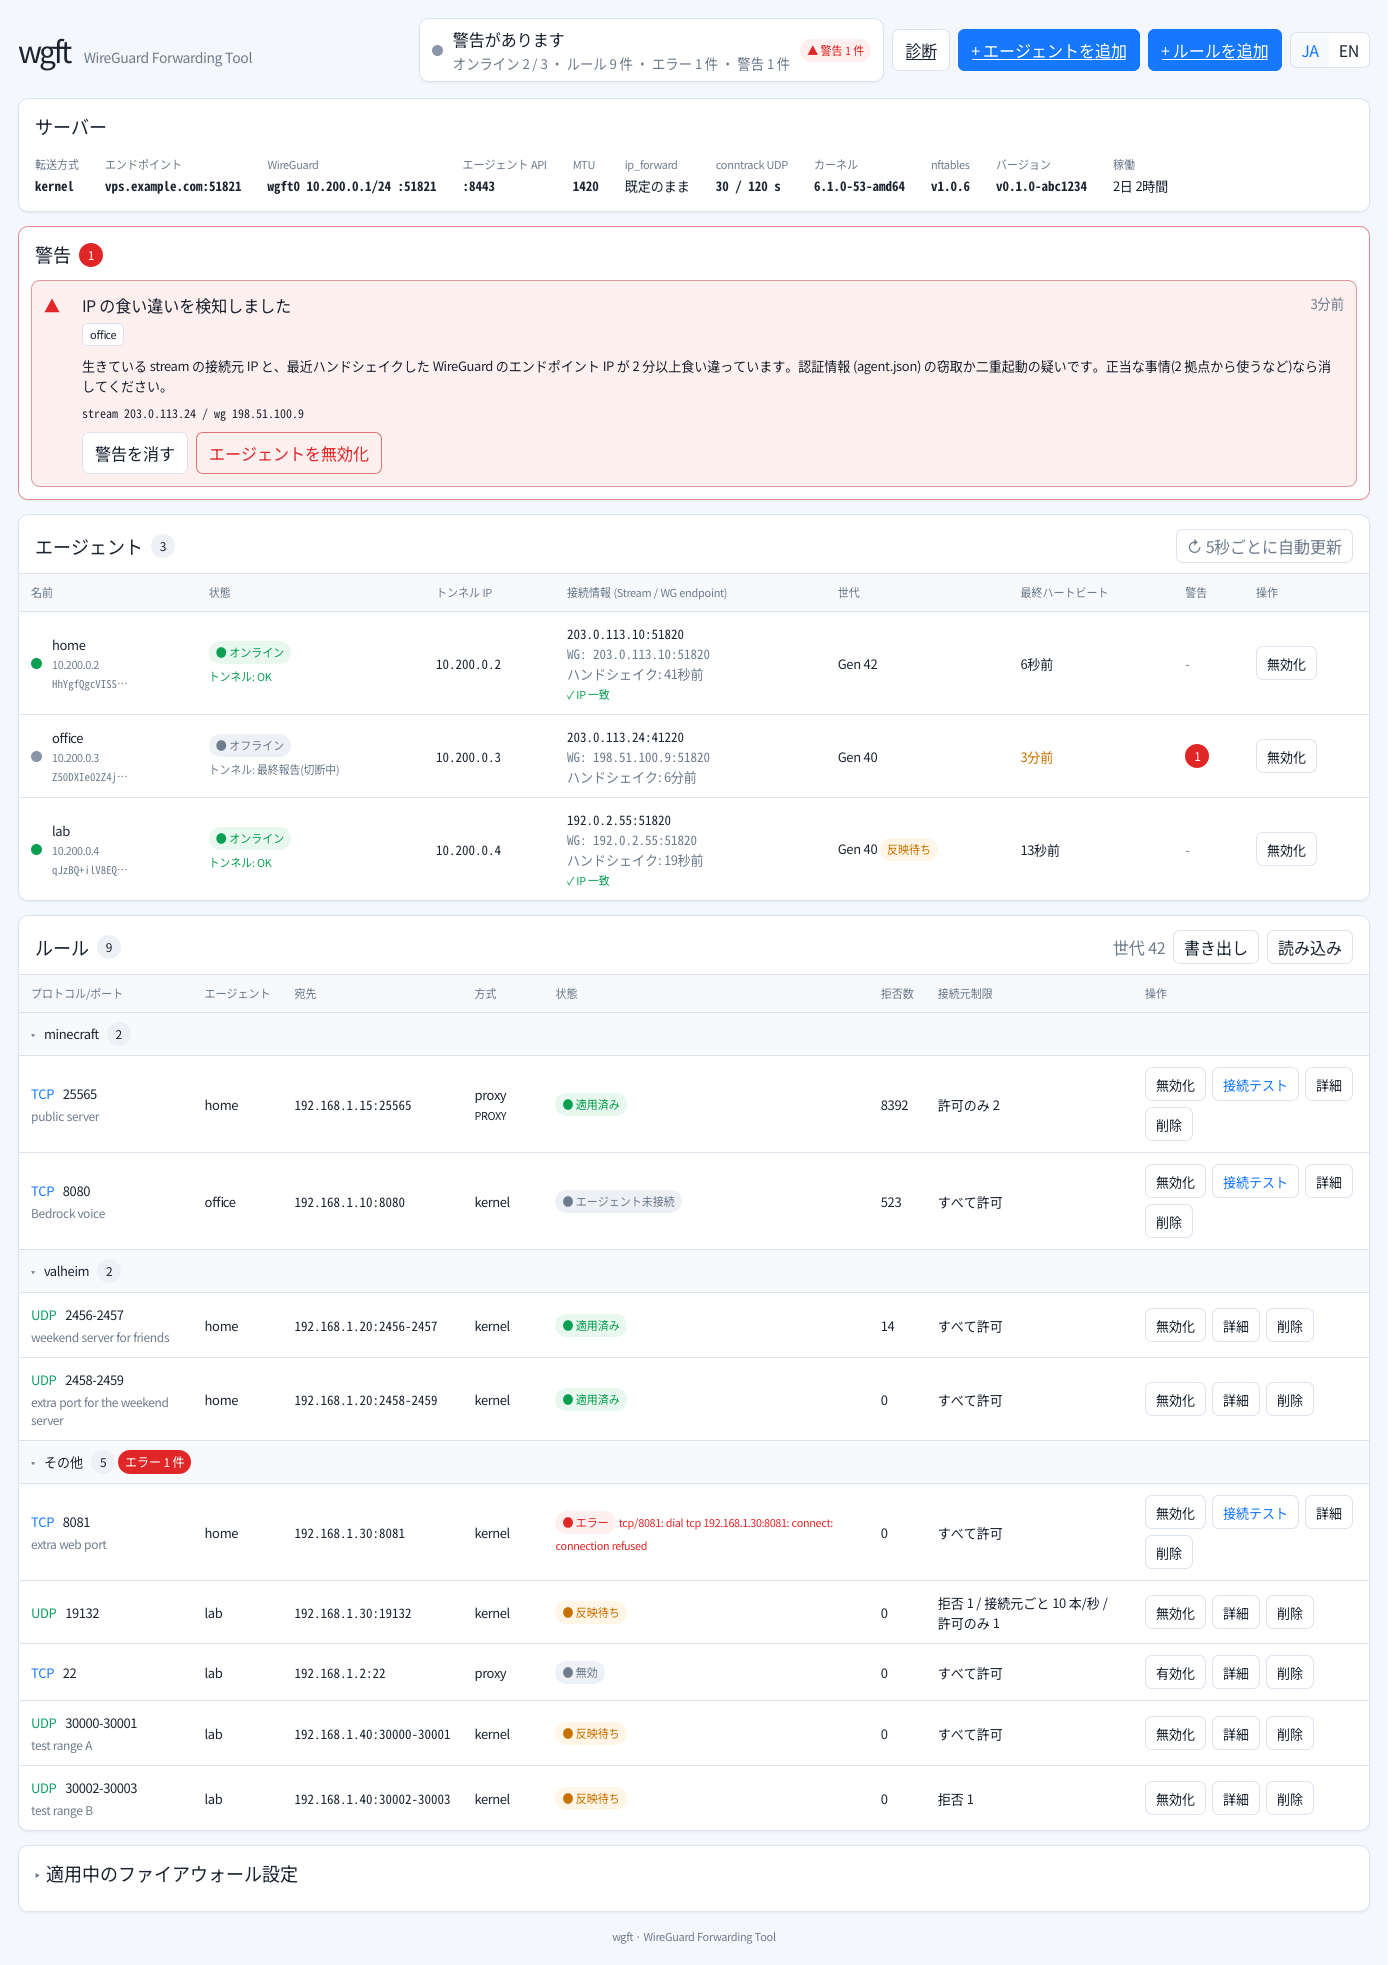
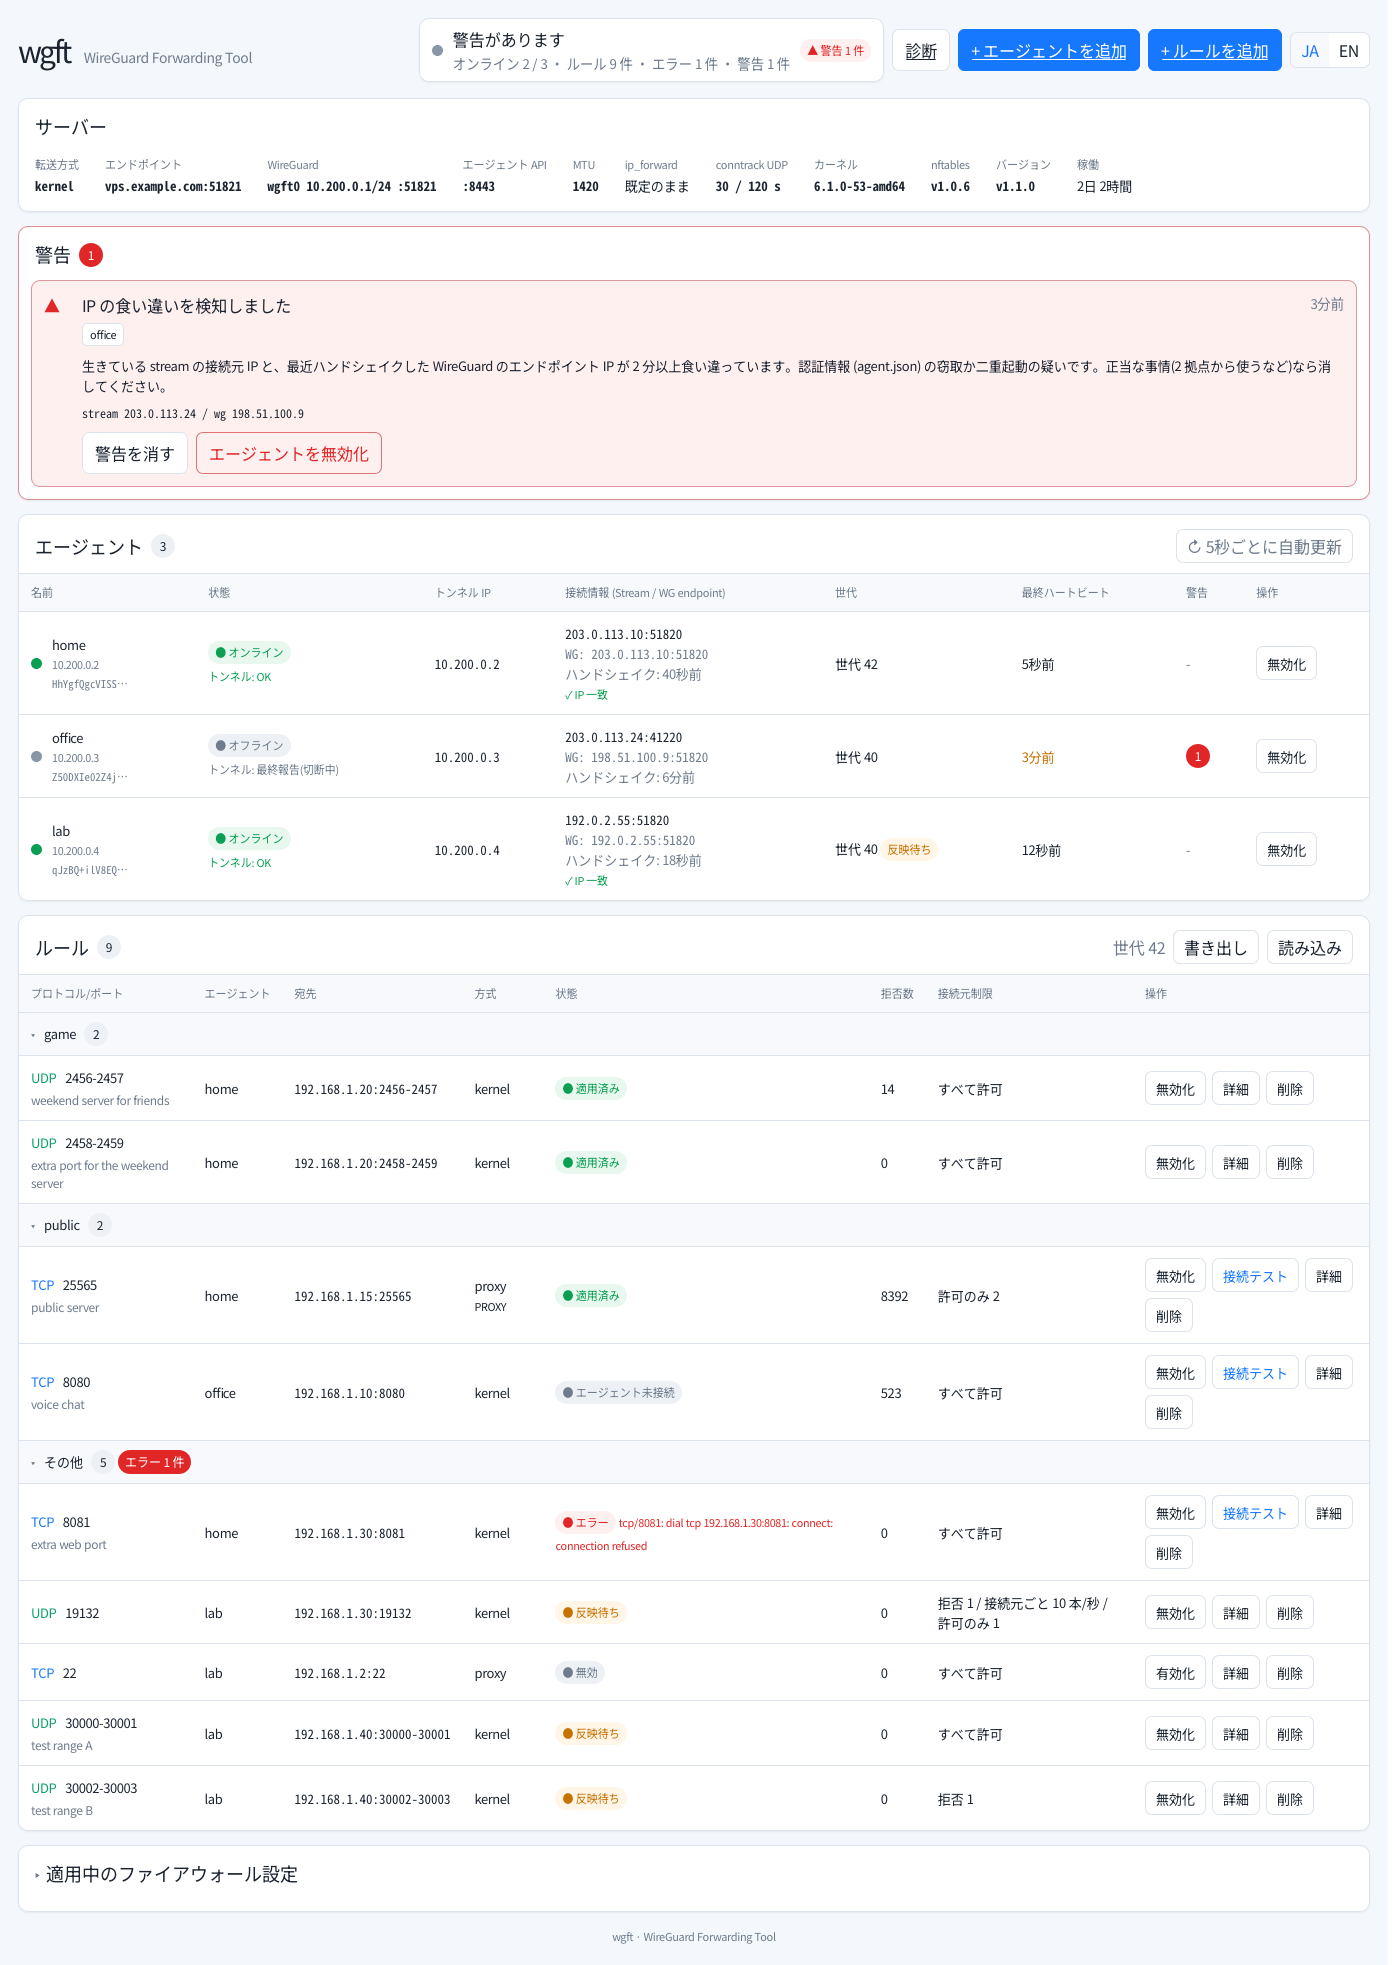
docs: describe diagnostics in the README and retake the screenshots
Add a section on server doctor, agent doctor and the Web UI's
diagnostics page to both READMEs, with screenshots of the diagnostics
pages in English and Japanese.

tools/uidemo now computes every timestamp relative to each request, so
the sample agents stay healthy however long the demo has been running,
and uses neutral group names and rule IDs. scripts/screenshot-ui.sh also
captures the diagnostics list and the page of one rule that stops at
WireGuard, cut at fixed heights documented in its header.

diff --git a/tools/uidemo/main.go b/tools/uidemo/main.go
@@ -90,32 +90,42 @@ NFT
 
 // fakeBackend implements admin.Backend with fixed sample data: three agents (home,
 // office, lab), nine rules across two named groups plus one ungrouped, one
-// ip-mismatch warning, and a server info block. Among the rules, r_valheim_udp and
-// r_valheim_udp2 are adjacent and mergeable; r_lab_udp30000 and
+// ip-mismatch warning, and a server info block. Among the rules, r_game_udp and
+// r_game_udp2 are adjacent and mergeable; r_lab_udp30000 and
 // r_lab_udp30002 are adjacent but not (their deny lists differ).
+//
+// Every timestamp (heartbeats, handshakes, the warning, the server's start) is computed
+// relative to the time of each request, not to the time the demo started, so a screenshot
+// looks the same however long the demo has been running: a healthy agent's heartbeat stays a
+// few seconds old instead of going stale after the liveness window.
 type fakeBackend struct {
-	agents   []admin.AgentInfo
-	rules    []proto.Rule
-	drops    map[string]uint64
-	warnings []admin.Warning
-	info     admin.ServerInfo
+	rules []proto.Rule
+	drops map[string]uint64
+	mode  string
 }
 
-func newFakeBackend(mode string) *fakeBackend {
-	base := time.Now()
-	rfc := func(d time.Duration) string { return base.Add(d).Format(time.RFC3339) }
+// rfcAgo returns the RFC 3339 time d before now.
+func rfcAgo(d time.Duration) string { return time.Now().Add(-d).Format(time.RFC3339) }
 
-	mismatch := admin.Warning{
+// sampleWarning is the office agent's ip-mismatch warning, raised three minutes ago.
+func sampleWarning() admin.Warning {
+	return admin.Warning{
 		Agent:  "office",
 		Kind:   "ip-mismatch",
 		Detail: "stream 203.0.113.24 / wg 198.51.100.9",
-		At:     rfc(-3 * time.Minute),
+		At:     rfcAgo(3 * time.Minute),
 	}
+}
 
-	agents := []admin.AgentInfo{
+// sampleAgents returns the three sample agents with their timestamps taken relative to now.
+func sampleAgents() []admin.AgentInfo {
+	rfc := func(d time.Duration) string { return rfcAgo(-d) }
+	mismatch := sampleWarning()
+
+	return []admin.AgentInfo{
 		{
 			// generation 42 matches Generation() below, and it reports every rule it
-			// owns, so r_mc_tcp25565, r_valheim_udp and r_valheim_udp2 show "applied"
+			// owns, so r_pub_tcp25565, r_game_udp and r_game_udp2 show "applied"
 			// while r_home_tcp8081 shows "error" with a realistic dial failure from
 			// checkTarget (relay.Manager). A listen bind conflict can't happen
 			// here: the agent's listener lives on its own netstack (design 7 section).
@@ -125,14 +135,14 @@ func newFakeBackend(mode string) *fakeBackend {
 			PublicKey: "HhYgfQgcVISS51VHjdkVxdPeCdaDL3P+vgm9soc8MLQ=", LastHandshake: rfc(-40 * time.Second),
 			Tunnel: admin.TunnelStatus{State: proto.StatusOK, Endpoint: "203.0.113.10:51820"},
 			Rules: []proto.RuleStatus{
-				{ID: "r_mc_tcp25565", State: proto.StatusOK},
-				{ID: "r_valheim_udp", State: proto.StatusOK},
-				{ID: "r_valheim_udp2", State: proto.StatusOK},
+				{ID: "r_pub_tcp25565", State: proto.StatusOK},
+				{ID: "r_game_udp", State: proto.StatusOK},
+				{ID: "r_game_udp2", State: proto.StatusOK},
 				{ID: "r_home_tcp8081", State: proto.StatusError, Reason: "tcp/8081: dial tcp 192.168.1.30:8081: connect: connection refused"},
 			},
 		},
 		{
-			// disconnected, so r_mc_tcp8080 shows "agent offline" regardless of Rules. Tunnel
+			// disconnected, so r_pub_tcp8080 shows "agent offline" regardless of Rules. Tunnel
 			// and StreamFrom/WGEndpoint are the last heartbeat before the stream dropped
 			// (design 5.2 section); Connected: false must keep the dashboard from drawing
 			// them as current (tunnel "OK", a live IP match/mismatch): the tunnel shows as a
@@ -158,29 +168,31 @@ func newFakeBackend(mode string) *fakeBackend {
 			},
 		},
 	}
+}
 
+func newFakeBackend(mode string) *fakeBackend {
 	rules := []proto.Rule{
 		{
-			ID: "r_mc_tcp25565", Agent: "home", Group: "minecraft", Note: "public server",
+			ID: "r_pub_tcp25565", Agent: "home", Group: "public", Note: "public server",
 			Proto: proto.TCP, ListenPort: proto.PortRange{Lo: 25565, Hi: 25565},
 			Target: "192.168.1.15:25565", VPSMode: proto.ModeProxy, ProxyProtocol: true, Enabled: true,
 			SourceAllow: []netip.Prefix{netip.MustParsePrefix("203.0.113.0/24"), netip.MustParsePrefix("198.51.100.0/24")},
 		},
 		{
-			ID: "r_mc_tcp8080", Agent: "office", Group: "minecraft", Note: "Bedrock voice",
+			ID: "r_pub_tcp8080", Agent: "office", Group: "public", Note: "voice chat",
 			Proto: proto.TCP, ListenPort: proto.PortRange{Lo: 8080, Hi: 8080},
 			Target: "192.168.1.10:8080", VPSMode: proto.ModeKernel, Enabled: true,
 		},
 		{
-			ID: "r_valheim_udp", Agent: "home", Group: "valheim", Note: "weekend server for friends",
+			ID: "r_game_udp", Agent: "home", Group: "game", Note: "weekend server for friends",
 			Proto: proto.UDP, ListenPort: proto.PortRange{Lo: 2456, Hi: 2457},
 			Target: "192.168.1.20:2456", VPSMode: proto.ModeKernel, Enabled: true,
 		},
 		{
-			// Adjacent to r_valheim_udp above with everything else equal (agent, proto,
+			// Adjacent to r_game_udp above with everything else equal (agent, proto,
 			// mode, proxy_protocol, lists, rates, enabled), so the rule detail page's
 			// merge section offers each as the other's candidate.
-			ID: "r_valheim_udp2", Agent: "home", Group: "valheim", Note: "extra port for the weekend server",
+			ID: "r_game_udp2", Agent: "home", Group: "game", Note: "extra port for the weekend server",
 			Proto: proto.UDP, ListenPort: proto.PortRange{Lo: 2458, Hi: 2459},
 			Target: "192.168.1.20:2458", VPSMode: proto.ModeKernel, Enabled: true,
 		},
@@ -223,33 +235,35 @@ func newFakeBackend(mode string) *fakeBackend {
 	}
 
 	return &fakeBackend{
-		agents: agents,
-		rules:  rules,
+		rules: rules,
 		drops: map[string]uint64{
-			"r_mc_tcp25565": 8392,
-			"r_mc_tcp8080":  523,
-			"r_valheim_udp": 14,
+			"r_pub_tcp25565": 8392,
+			"r_pub_tcp8080":  523,
+			"r_game_udp":     14,
 		},
-		warnings: []admin.Warning{mismatch},
-		info: admin.ServerInfo{
-			Version:          "v0.1.0-abc1234",
-			Mode:             mode,
-			StartedAt:        rfc(-(50*time.Hour + 5*time.Minute)), // uptime: 2d 2h
-			WGInterface:      "wgft0",
-			WGAddress:        "10.200.0.1/24",
-			WGPort:           51821,
-			WGEndpoint:       "vps.example.com:51821",
-			AgentAPIPort:     "8443",
-			AdminAddr:        listenAddr,
-			MTU:              1420,
-			ServerPubKey:     "wJ6znEXOTPMBUXW+3z2vqjaMYikBWi2gYGA9EI0PZXk=",
-			Kernel:           "6.1.0-53-amd64",
-			NFT:              "v1.0.6",
-			IPForwardSetAt:   "", // unchanged
-			UDPTimeout:       30,
-			UDPTimeoutStream: 120,
-		},
+		mode: mode,
 	}
+}
+
+func (b *fakeBackend) ServerInfo() (admin.ServerInfo, error) {
+	return admin.ServerInfo{
+		Version:          "v1.1.0",
+		Mode:             b.mode,
+		StartedAt:        rfcAgo(50*time.Hour + 5*time.Minute), // uptime: 2d 2h
+		WGInterface:      "wgft0",
+		WGAddress:        "10.200.0.1/24",
+		WGPort:           51821,
+		WGEndpoint:       "vps.example.com:51821",
+		AgentAPIPort:     "8443",
+		AdminAddr:        listenAddr,
+		MTU:              1420,
+		ServerPubKey:     "wJ6znEXOTPMBUXW+3z2vqjaMYikBWi2gYGA9EI0PZXk=",
+		Kernel:           "6.1.0-53-amd64",
+		NFT:              "v1.0.6",
+		IPForwardSetAt:   "", // unchanged
+		UDPTimeout:       30,
+		UDPTimeoutStream: 120,
+	}, nil
 }
 
 func (b *fakeBackend) Rules() ([]proto.Rule, error) { return b.rules, nil }
@@ -273,7 +287,7 @@ func (b *fakeBackend) AgentState(agent string) (*proto.State, error) {
 	return &proto.State{Generation: 42}, nil
 }
 
-func (b *fakeBackend) Agents() ([]admin.AgentInfo, error) { return b.agents, nil }
+func (b *fakeBackend) Agents() ([]admin.AgentInfo, error) { return sampleAgents(), nil }
 
 func (b *fakeBackend) RuleDrops() (map[string]uint64, error) { return b.drops, nil }
 
@@ -286,15 +300,15 @@ func (b *fakeBackend) JoinString(name string) (admin.JoinStringResponse, error) 
 
 func (b *fakeBackend) Revoke(name string) error { return nil }
 
-func (b *fakeBackend) Warnings() ([]admin.Warning, error) { return b.warnings, nil }
+func (b *fakeBackend) Warnings() ([]admin.Warning, error) {
+	return []admin.Warning{sampleWarning()}, nil
+}
 
 func (b *fakeBackend) DismissWarning(agent, kind, detail string) error { return nil }
 
 func (b *fakeBackend) CheckConnectivity(ruleID string) (admin.ConnCheck, error) {
 	return admin.ConnCheck{OK: true, Reach: "target", Detail: "demo: path OK"}, nil
 }
-
-func (b *fakeBackend) ServerInfo() (admin.ServerInfo, error) { return b.info, nil }
 
 // ApplyStatus reports every enabled rule's public port as active at generation 42, the way a
 // real server reports it. The dashboard reads only not_active and pending from it, so its
@@ -312,12 +326,13 @@ func (b *fakeBackend) ApplyStatus() (admin.ApplyStatus, bool) {
 
 // AgentRuleStatuses reports what each rule's agent last said about it, from the sample agents
 // above, so the diagnosis page can show a rule stopping at its target (r_home_tcp8081) and a UDP
-// rule whose listener is open (r_valheim_udp).
+// rule whose listener is open (r_game_udp).
 func (b *fakeBackend) AgentRuleStatuses(rules []proto.Rule) map[string]admin.AgentRuleStatus {
 	out := make(map[string]admin.AgentRuleStatus, len(rules))
+	agents := sampleAgents()
 	for _, r := range rules {
 		st := admin.AgentRuleStatus{Agent: r.Agent}
-		for _, a := range b.agents {
+		for _, a := range agents {
 			if a.Name != r.Agent {
 				continue
 			}

diff --git a/README.ja.md b/README.ja.md
@@ -34,6 +34,7 @@ wgft は、任意の TCP/UDP ポートをそのまま転送したい用途、特
 - ルール変更時も無関係なセッションは切断しない
 - TCP ルールでは PROXY protocol v2 により実クライアント IP を転送可能
 - agent、ルール、警告、転送状態を確認できる Web ダッシュボード
+- ルールの通信がどこまで届き、どこで止まるかを CLI と Web UI で診断
 - `wgft server teardown` は wgft が作成した状態だけを削除
 
 ## wgft を作った理由
@@ -157,6 +158,23 @@ ssh -L 8686:/run/wgft/admin.sock root@vps
 ```
 
 その状態で `http://localhost:8686` を開きます。その他の管理画面への接続方法は [セットアップガイド](docs/setup.ja.md#web-ui) を参照してください。
+
+## 転送が届かないときの診断
+
+VPS で実行する `wgft server doctor` は、ルールの通信がどこまで届き、どこで止まるかと、次に確かめる箇所を示します。引数を省くと server、agent、全ルールを一覧にします。ルール ID を渡すと、そのルールを公開ポートから転送先まで順にたどります。このコマンドは稼働中の server が既に観測した内容だけを読み、`--probe` を付けたときだけ接続を試します。`--probe` は、トンネルと agent を通して転送先へ実際の TCP 接続を 1 本開きます。
+
+```sh
+sudo wgft server doctor
+sudo wgft server doctor <ルール ID>
+```
+
+Web UI の診断の画面は、同じ証拠から組み立てた同じ判定を表示します。各ルールは公開ポート、WireGuard、agent、リスナーと転送先を結んだ経路の図になり、通信が止まった箇所に印が付きます。疎通の確認は、1 本のルールの画面でボタンを押したときだけ実行します。次の画面は、agent との最近のハンドシェイクが無いために WireGuard で止まったルールです。全ルールの[一覧の画面](docs/images/doctor.ja.png)もあります。
+
+![1 本のルールの診断の画面](docs/images/doctor-rule.ja.png)
+
+`wgft agent doctor` は、agent のホストの側から、agent が動いているか、認証情報を持っているか、必要な名前を解決できるかを示します。判定は実行した利用者の権限で行うため、agent のホストで agent と同じ利用者として実行します。root で実行すると、agent 自身の利用者がファイルを読めるかを判定できないので、privileges の項目は UNKNOWN になります。`--json` を付けると、どちらの doctor も診断の結果を JSON で出力します。その id と reason のコードは、機械で読むための安定した形式です。
+
+各状態の意味と終了コードは [CLI リファレンス](docs/cli.md) を、検査の判定の仕方は [設計](docs/design.md) を参照してください。
 
 ## ドキュメント
 

diff --git a/README.md b/README.md
@@ -34,6 +34,7 @@ wgft is aimed at workloads where arbitrary TCP/UDP forwarding matters, especiall
 - Rule changes do not disconnect unrelated sessions
 - Optional PROXY protocol v2 for preserving the real client IP on TCP rules
 - Web dashboard for agents, rules, warnings, and forwarding state
+- Diagnostics that show how far a rule's traffic gets and where it stops, from the CLI and the Web UI
 - `wgft server teardown` removes only state created by wgft
 
 ## Why wgft?
@@ -157,6 +158,23 @@ ssh -L 8686:/run/wgft/admin.sock root@vps
 ```
 
 Then open `http://localhost:8686`. Other admin access options are documented in the [setup guide](docs/setup.md#web-ui).
+
+## Diagnosing a rule that carries no traffic
+
+`wgft server doctor` on the VPS answers how far a rule's traffic gets, where it stops, and what to check next. Without an argument it surveys the server, the agents, and every rule. Given a rule ID, it follows that one rule from the public port to the target. It reads only what the running server has already observed and opens no connection unless you add `--probe`, which dials one real TCP connection through the tunnel and the agent to the target.
+
+```sh
+sudo wgft server doctor
+sudo wgft server doctor <rule ID>
+```
+
+The Diagnostics page of the Web UI shows the same verdicts, built from the same evidence. Each rule is drawn as a path of public port, WireGuard, agent, and listener/target, marked at the point where traffic stops. The probe runs only when you press its button on a single rule's page. The screenshot below shows a rule whose traffic stops at WireGuard because its agent has not completed a recent handshake. The page also has [a list of every rule](docs/images/doctor.png).
+
+![Diagnostics page of one rule](docs/images/doctor-rule.png)
+
+`wgft agent doctor` answers from the agent host: whether an agent runs there, whether it holds credentials, and whether the host can resolve the names it needs. Run it on the agent host as the user the agent runs as. It answers for the permissions of the user who runs it. Run as root, it cannot tell whether the agent's own user can reach its files, and reports the privileges item as UNKNOWN. With `--json`, both doctor commands print a diagnostic model whose ids and reason codes are a stable machine interface.
+
+See the [CLI reference](docs/cli.md) for what each state means and for the exit codes, and the [design](docs/design.md) for how the checks are judged.
 
 ## Documentation
 
